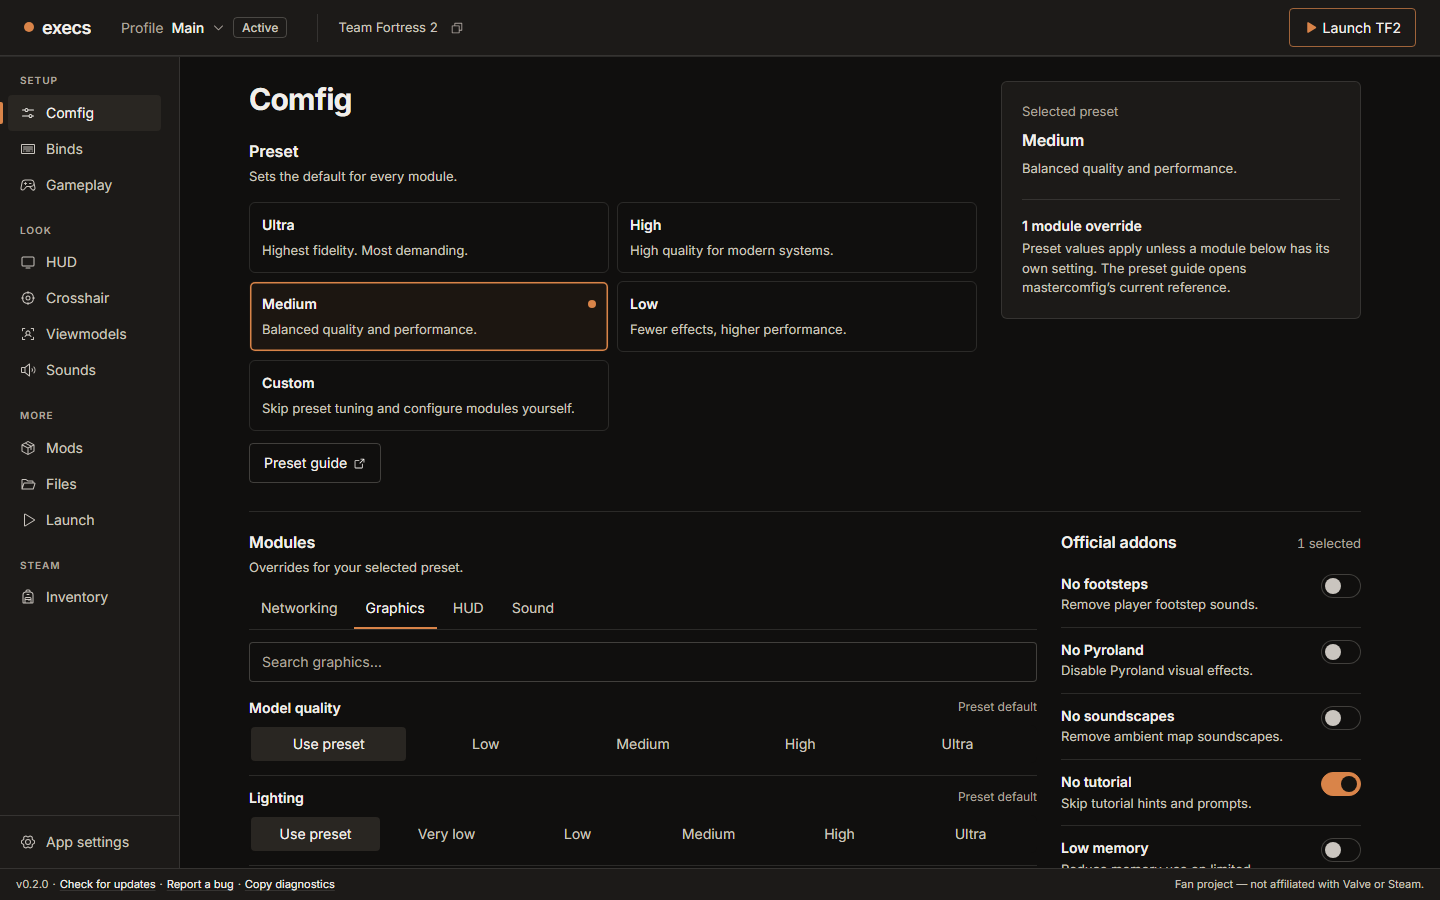
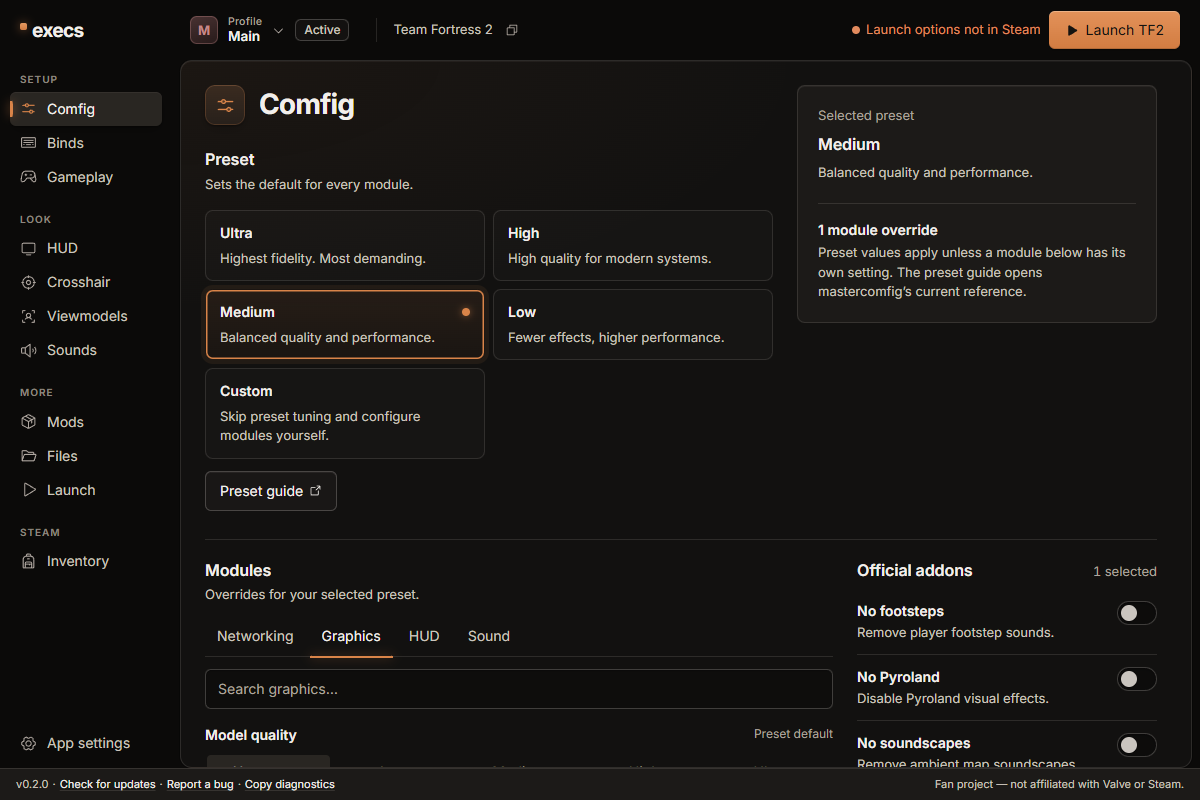
Center the first-run brand, anchor tab underlines, refresh README screenshots
Add a docs index that separates contributor guides from dated records.

diff --git a/apps/desktop/src/components/OnboardingFrame.tsx b/apps/desktop/src/components/OnboardingFrame.tsx
@@ -40,10 +40,17 @@ export function OnboardingFrame({
         width === "wide" ? "max-w-[880px]" : "max-w-[640px]"
       }`}
     >
-      <div className="rise-in flex w-full items-center gap-3 pb-2">
-        <AppMark size={36} />
-        <p className="brand">execs</p>
-      </div>
+      {compact ? (
+        <div className="rise-in flex w-full items-center gap-3 pb-2">
+          <AppMark size={36} />
+          <p className="brand">execs</p>
+        </div>
+      ) : (
+        <div className="rise-in flex flex-col items-center gap-3">
+          <AppMark size={56} />
+          <p className="brand text-[15px]">execs</p>
+        </div>
+      )}
       <div
         className={
           compact
@@ -53,7 +60,7 @@ export function OnboardingFrame({
       >
         <div className={compact ? "min-w-0" : "flex flex-col items-center"}>
           <h1
-            className={`t-pane rise-in max-w-[28ch] text-balance ${compact ? "" : "mt-6 text-center"}`}
+            className={`t-pane rise-in max-w-[28ch] text-balance ${compact ? "" : "mt-5 text-center"}`}
           >
             {title}
           </h1>

diff --git a/apps/desktop/src/components/ui/ClassTabs.tsx b/apps/desktop/src/components/ui/ClassTabs.tsx
@@ -52,7 +52,8 @@ export function ClassTabs<Id extends string>({
       setIndicator((current) => ({
         x: target.offsetLeft,
         width: target.offsetWidth,
-        y: target.offsetTop + target.offsetHeight - root.clientHeight,
+        // Anchor from the top so wrapped rows and zoom use one measurement basis.
+        y: target.offsetTop + target.offsetHeight - 1,
         ready: current !== null,
       }));
     };

diff --git a/apps/desktop/src/index.css b/apps/desktop/src/index.css
@@ -1517,7 +1517,7 @@ a:focus-visible,
   /* One underline glides between tabs. */
   .class-tabs-indicator {
     position: absolute;
-    bottom: -1px;
+    top: 0;
     left: 0;
     height: 2px;
     border-radius: 2px 2px 0 0;

diff --git a/docs/README.md b/docs/README.md
@@ -1,0 +1,33 @@
+# execs documentation
+
+Player-facing documentation lives in the [project README](../README.md) and the
+[changelog](../CHANGELOG.md). Everything in this folder is for contributors and
+maintainers.
+
+## Start here
+
+- [AGENTS.md](../AGENTS.md): the working spec. It records every durable product and
+  integrity decision in present tense.
+- [CONTRIBUTING.md](../CONTRIBUTING.md): setup, checks and how changes land.
+- [RELEASE.md](RELEASE.md): what counts as a public release, versioning and the ship checklist.
+- [THIRD_PARTY.md](../THIRD_PARTY.md): runtime sources, licenses and how each one is used.
+
+## Design notes
+
+- [files-workspace-design.md](files-workspace-design.md),
+  [files-editor-engine.md](files-editor-engine.md) and
+  [files-reference-sources.md](files-reference-sources.md): the Files editor.
+- [hud-schema-compatibility.md](hud-schema-compatibility.md): how HUD option schemas are
+  pinned and validated.
+- [design/2026-09-22-overhaul/](design/2026-09-22-overhaul/README.md): the 0.2.0 visual
+  overhaul, its concepts, implementation reviews and qualification evidence.
+
+## Records
+
+These are dated evidence. They describe what was true when written and are kept
+unchanged for provenance; AGENTS.md is authoritative when they differ.
+
+- `release-*.md`, `forwardport-0.1.4.md`, `creator-import-0.1.6.md`, `hud-import-0.1.6.md`,
+  `hud-paths-0.1.6.md` and `files-native-0.1.7.md`: validation records for past releases.
+- [audits/](audits/): release and whole-program audits with their findings and remediation.
+- [media/](media/): the app icon, promo animation and screenshots used by the README.

diff --git a/README.md b/README.md
@@ -37,7 +37,7 @@ A profile is everything that makes your install yours: config, binds, HUD, cross
 
 <p align="center">
   <img src="docs/media/development-comfig.png" width="49%" alt="Comfig pane with a selected preset and module controls in browser preview data">
-  <img src="docs/media/development-gameplay.png" width="49%" alt="Gameplay pane with FOV values and viewmodel controls in browser preview data">
+  <img src="docs/media/development-gameplay.png" width="49%" alt="Gameplay pane with field of view, mouse sensitivity and weapon options in browser preview data">
 </p>
 
 ## Install
